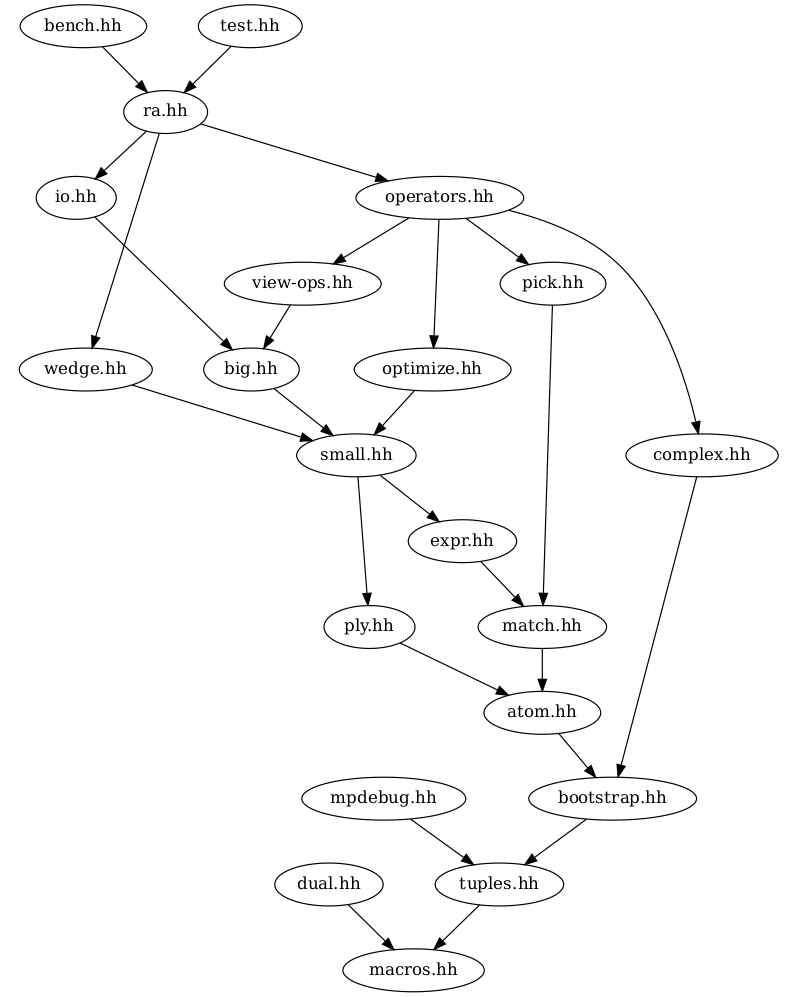
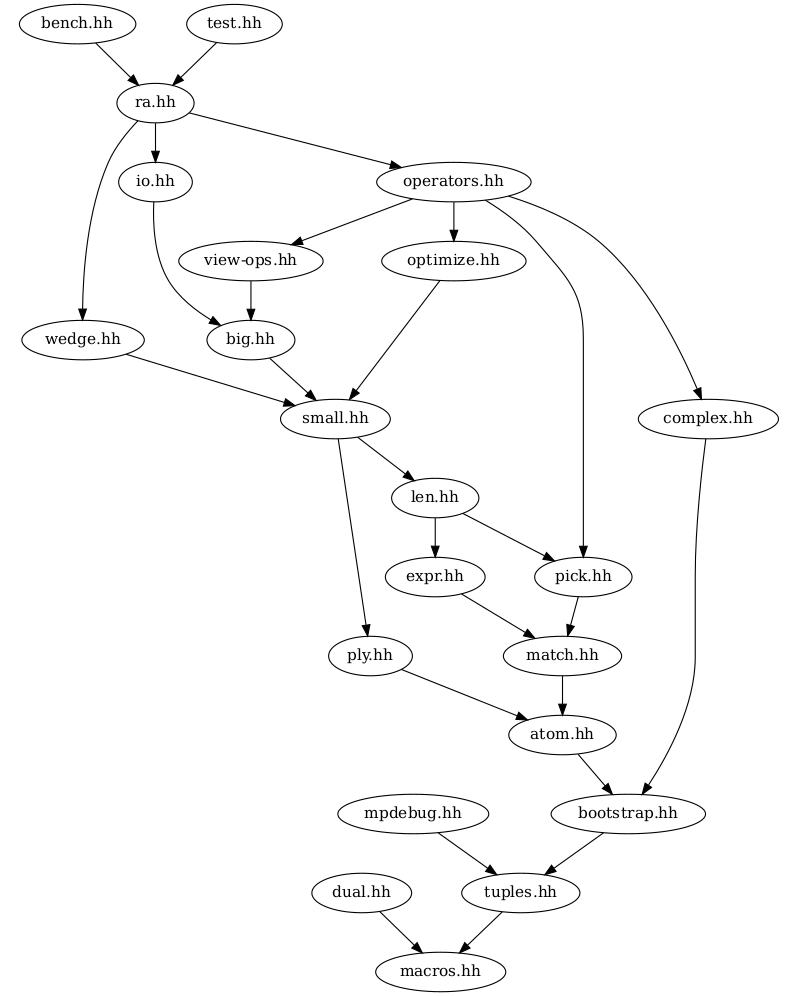
Move WithLen sandbox to header
* ra/len.hh: New header.
* test/len.cc: Moved from box/len.cc.
* ra/small.hh: Fix imports.
* docs/headers.png: Regenerate.

diff --git a/test/len.cc b/test/len.cc
@@ -1,0 +1,73 @@
+// -*- mode: c++; coding: utf-8 -*-
+// ek/box - Special object len
+
+// (c) Daniel Llorens - 2023
+// This library is free software; you can redistribute it and/or modify it under
+// the terms of the GNU Lesser General Public License as published by the Free
+// Software Foundation; either version 3 of the License, or (at your option) any
+// later version.
+
+// [X] if constexpr (no len in three) then don't rt-walk the tree, just identity
+// [X] support Pick like Expr
+// [X] handle iota with len (meaning also expr!) members
+// [ ] plug in view.operator() etc.
+
+#include "ra/test.hh"
+#include "ra/mpdebug.hh"
+#include <iomanip>
+#include <chrono>
+#include <span>
+
+using std::cout, std::endl, std::flush;
+
+int main()
+{
+    ra::TestRecorder tr(std::cout);
+    tr.section("type predicates");
+    {
+        tr.test(ra::IteratorConcept<ra::Len>);
+        tr.test(!ra::is_scalar<ra::Len>);
+        tr.test(ra::is_zero_or_scalar<ra::Len>);
+        tr.test(ra::ra_zero<ra::Len>);
+        tr.test(!ra::is_ra_pos_rank<ra::Len>);
+        tr.test(ra::is_special<ra::Len>);
+        tr.test(ra::ra_irreducible<ra::Len>);
+        tr.test(!ra::ra_reducible<ra::Len>);
+        tr.test(ra::ra_irreducible<ra::Len, ra::Len>);
+        tr.test(!ra::ra_reducible<ra::Len, ra::Len>);
+        tr.test(ra::ra_irreducible<decltype((ra::len + ra::len) + (ra::len + ra::len))>);
+        tr.test(!ra::ra_reducible<decltype((ra::len + ra::len) + (ra::len + ra::len))>);
+        tr.test(ra::is_zero_or_scalar<decltype((ra::len + ra::len) + (ra::len + ra::len))>);
+        tr.test(ra::IteratorConcept<decltype((ra::len + ra::len) + (ra::len + ra::len))>);
+    }
+    tr.section("bare len");
+    {
+        tr.test_eq(0, (ra::len + ra::len).rank());
+        tr.test_eq(0, ra::map(std::plus(), ra::len, ra::len).rank());
+        tr.test_eq(3, with_len(5, ra::scalar(3)));
+        tr.test_eq(5, with_len(5, ra::len));
+        tr.test_eq(10, with_len(5, ra::len + ra::len));
+        tr.test_eq(20, ra::with_len(5, (ra::len + ra::len) + (ra::len + ra::len)));
+        tr.test_eq(100, ra::with_len(5, ra::map(std::plus(), 99, 1)));
+        tr.test_eq(10, ra::with_len(5, ra::map(std::plus(), ra::len, ra::len)));
+        tr.test_eq(104, ra::with_len(5, ra::map(std::plus(), 99, ra::len)));
+        tr.test_eq(10, ra::with_len(5, ra::map(std::plus(), ra::len, ra::len)));
+        tr.test_eq(19, ra::with_len(8, ra::map(std::plus(), ra::len, ra::map(std::plus(), 3, ra::len))));
+        tr.test_eq(ra::iota(10, 11), with_len(8, ra::map(std::plus(), ra::iota(10), ra::map(std::plus(), 3, ra::len))));
+        tr.test_eq(ra::iota(10, 3), with_len(8, ra::map(std::plus(), ra::iota(10), 3)));
+        tr.test_eq(11, sum(with_len(4, ra::pick(std::array {0, 1, 0}, ra::len, 3))));
+    }
+    tr.section("constexpr");
+    {
+        constexpr int val = sum(with_len(4, ra::pick(std::array {0, 1, 0}, ra::len, 3)));
+        tr.test_eq(11, val);
+    }
+    tr.section("len in iota");
+    {
+        tr.test_eq(ra::iota(5, 20), with_len(10, ra::iota(5, ra::len+ra::len)));
+        tr.test_eq(ra::iota(10, 20), with_len(10, ra::iota(ra::len, ra::len+ra::len)));
+        tr.test_eq(ra::iota(11, 20), with_len(10, ra::iota(ra::len+1, ra::len+ra::len)));
+        tr.test_eq(ra::iota(10, 20, 2), with_len(10, ra::iota(ra::len, ra::len+ra::len, ra::len/5)));
+    }
+    return tr.summary();
+}
